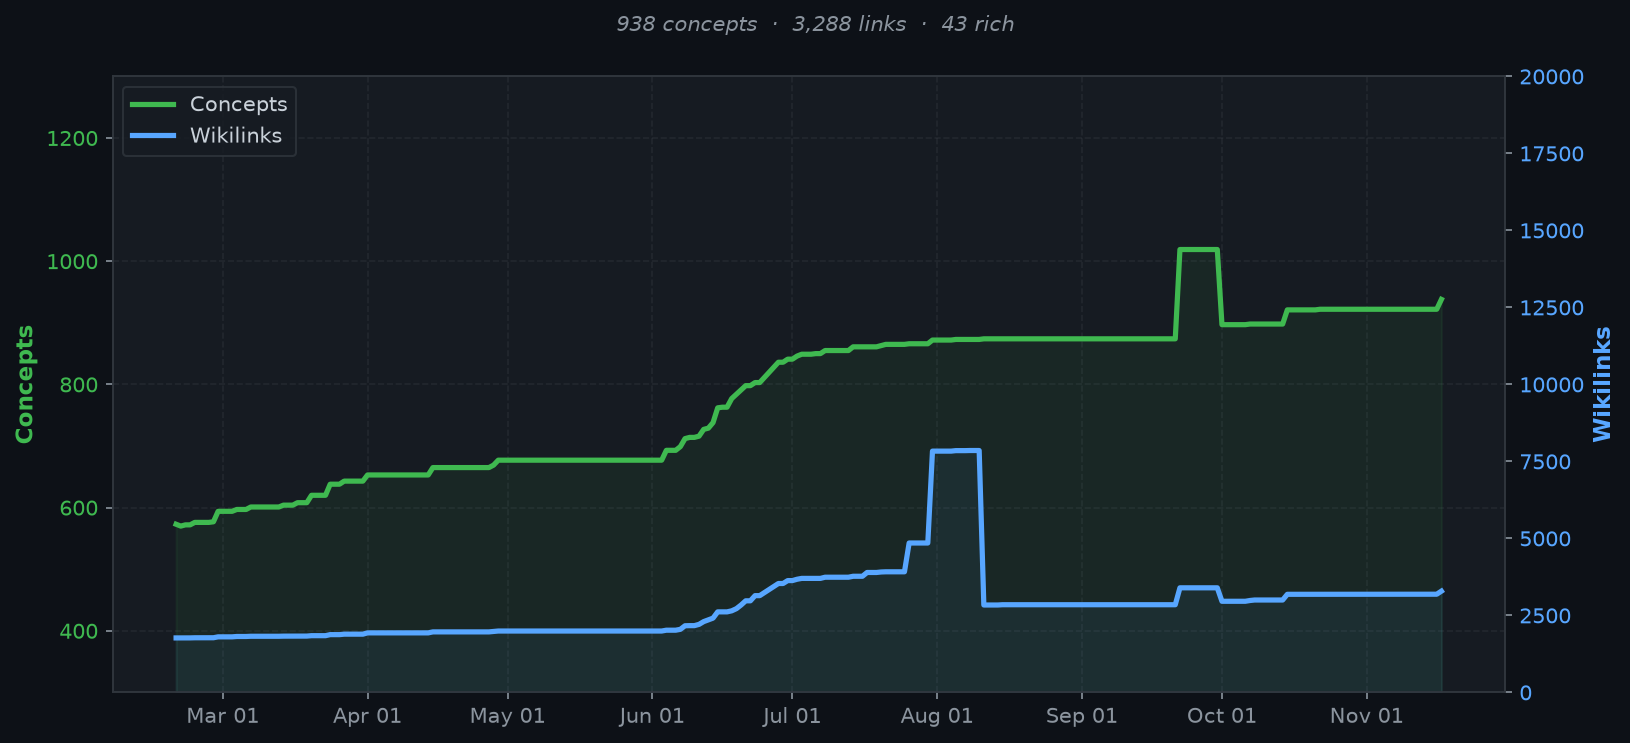
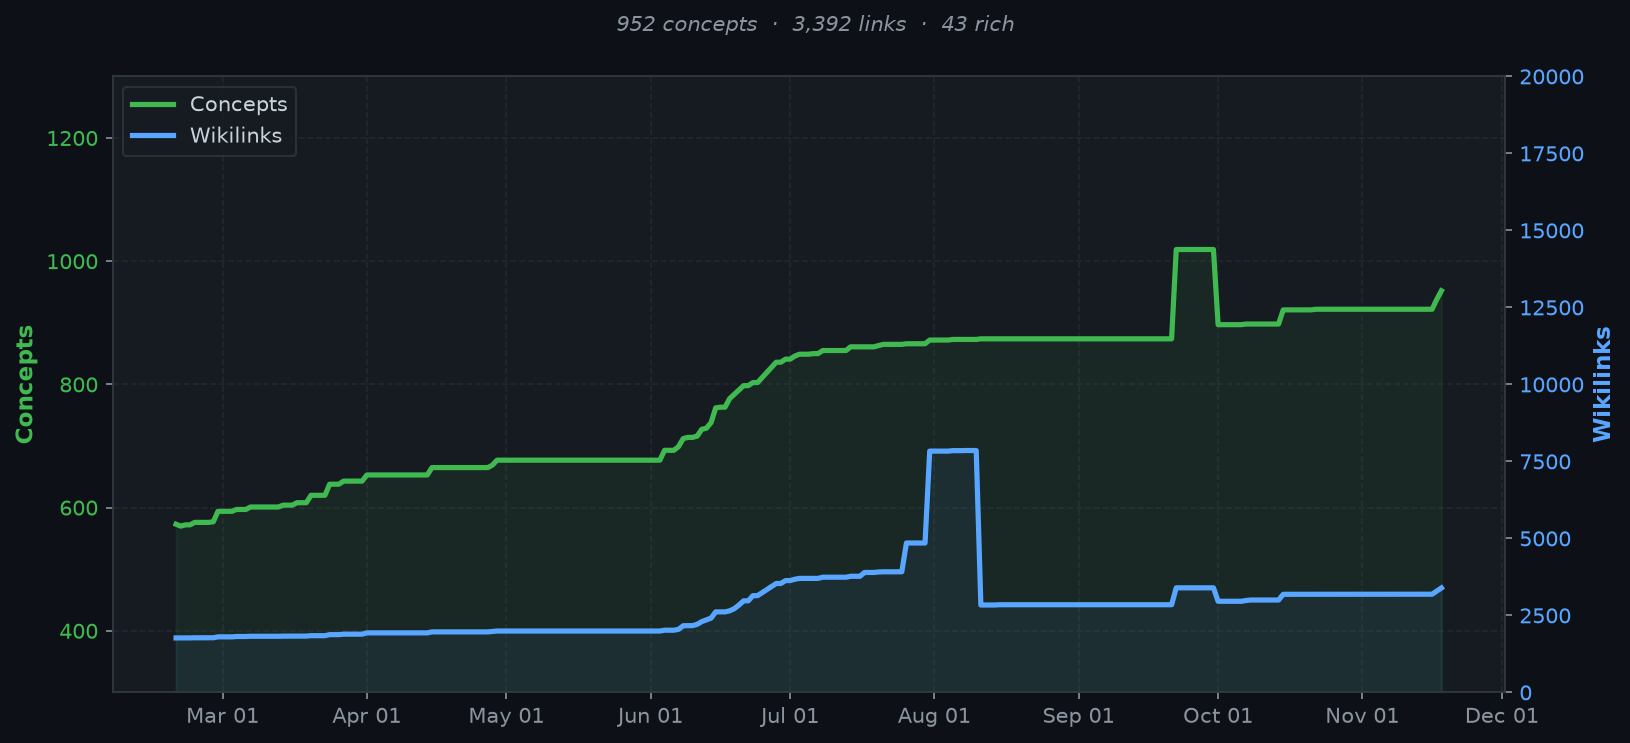
Update knowledge graph stats [skip ci]

diff --git a/README.md b/README.md
@@ -4,7 +4,7 @@
 
 **A living [[ontology]] of [[data]] science, ML, and AI built as an Obsidian vault with typed semantic relationships.**
 
-[![Concepts](https://img.shields.io/badge/concepts-938-blue?style=flat-square)](#)
+[![Concepts](https://img.shields.io/badge/concepts-952-blue?style=flat-square)](#)
 [![Wikilinks](https://img.shields.io/badge/wikilinks-7%2C800%2B-green?style=flat-square)](#)
 [![SKOS Coverage](https://img.shields.io/badge/SKOS_coverage-80.9%25-orange?style=flat-square)](#)
 [![Datalog Rules](https://img.shields.io/badge/datalog_rules-9-purple?style=flat-square)](#formal-reasoning)
